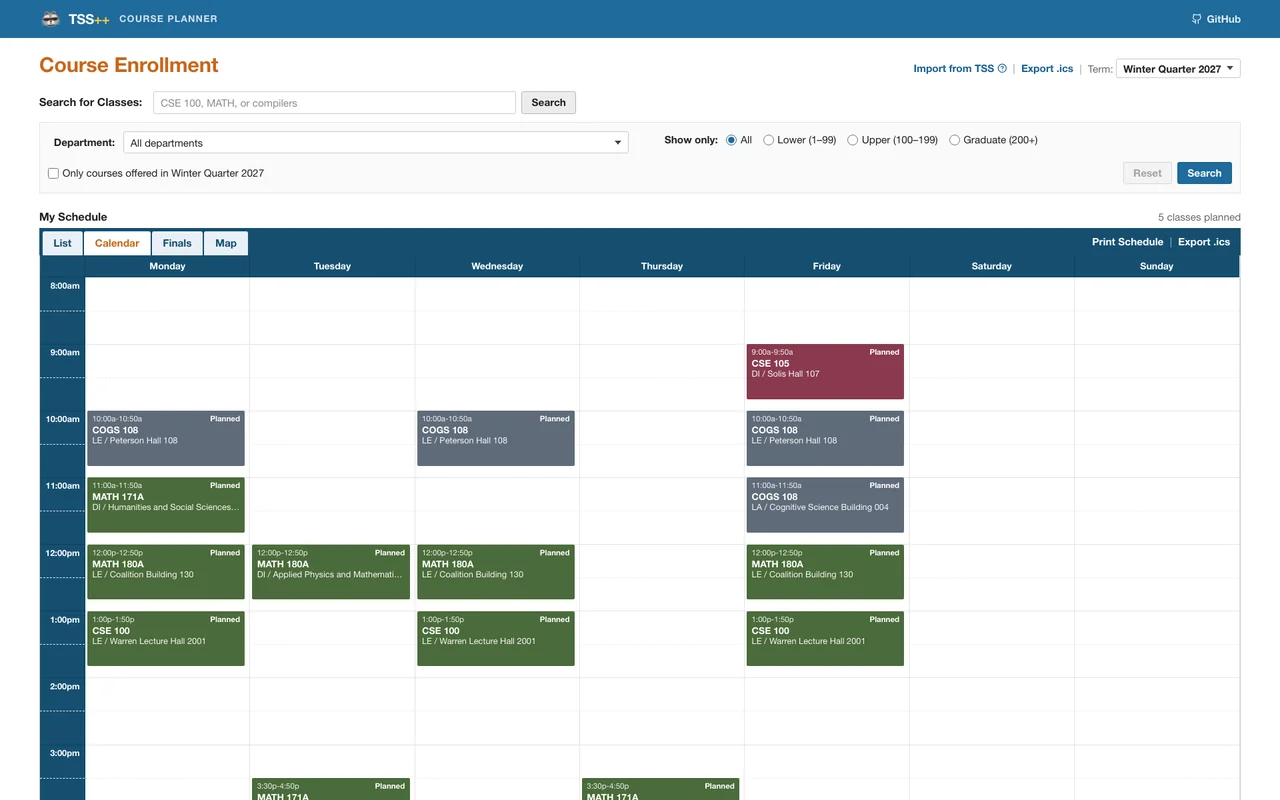
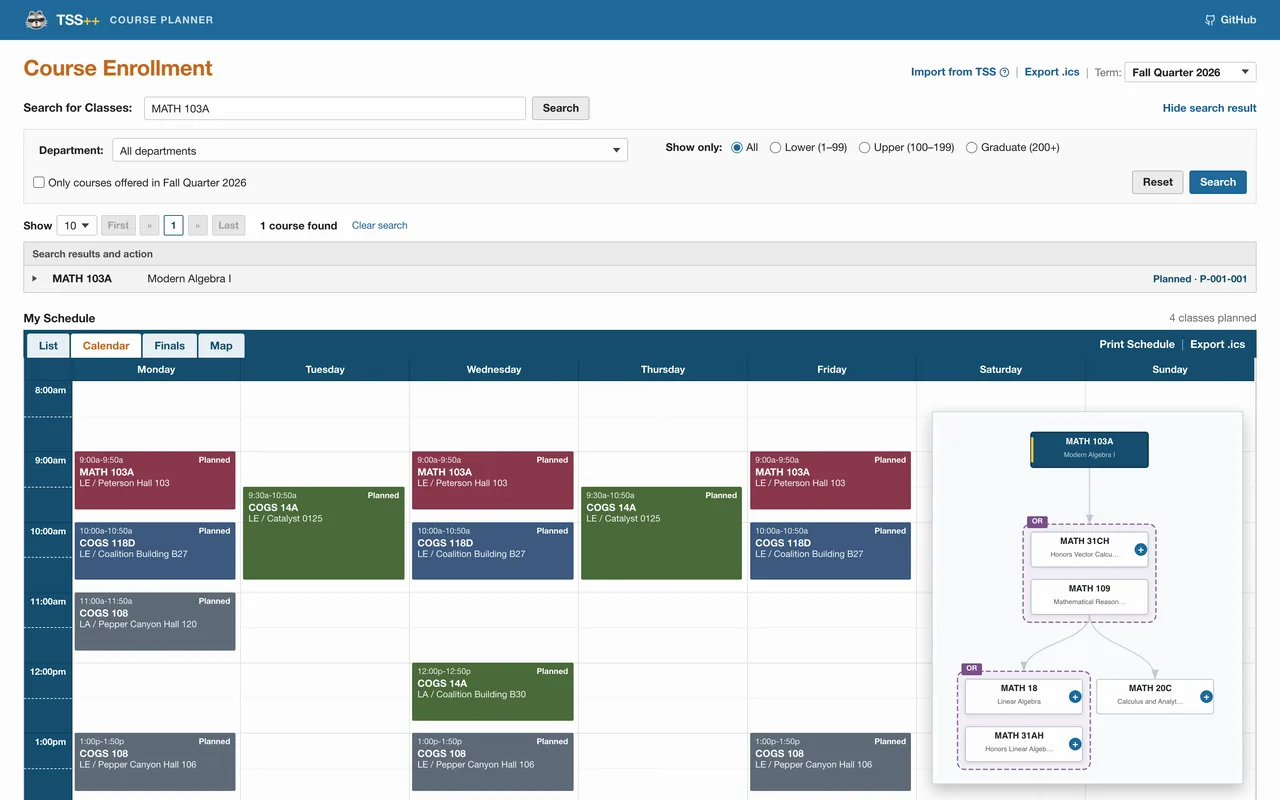
Refresh TSS++ screenshot with a prereq graph, update user count to 1,250+

diff --git a/index.html b/index.html
@@ -343,9 +343,9 @@
                     <article class="cell cell--tss">
                         <div class="shot">
                             <img src="etc/figures/projects/tssplusplus.webp" width="1280" height="800" loading="lazy"
-                                alt="TSS++ course planner with class search above a weekly calendar of five planned classes, color-coded by course.">
+                                alt="TSS++ course planner searching MATH 103A, above a weekly calendar for Fall 2026 with MATH 103A, COGS 14A, COGS 108, and COGS 118D planned, and an inset prerequisite graph for MATH 103A showing MATH 31CH or MATH 109, then MATH 18 or MATH 31AH and MATH 20C.">
                         </div>
-                        <p class="award">Open source, 1,000+ users</p>
+                        <p class="award">Open source, 1,250+ users</p>
                         <h2>TSS++</h2>
                         <p>An open-source course planner built as an alternative to UCSD's new student system, with prerequisite graphs, conflict detection, campus walking routes, and .ics export.</p>
                         <p>Reverse-engineered the undocumented TSS OData API from network traffic to scrape each quarter's sections, and built transitive prerequisite trees with AND/OR groups and cycle detection across 5,700+ courses. A daily GitHub Actions workflow detects newly published quarters and scrapes them automatically.</p>
